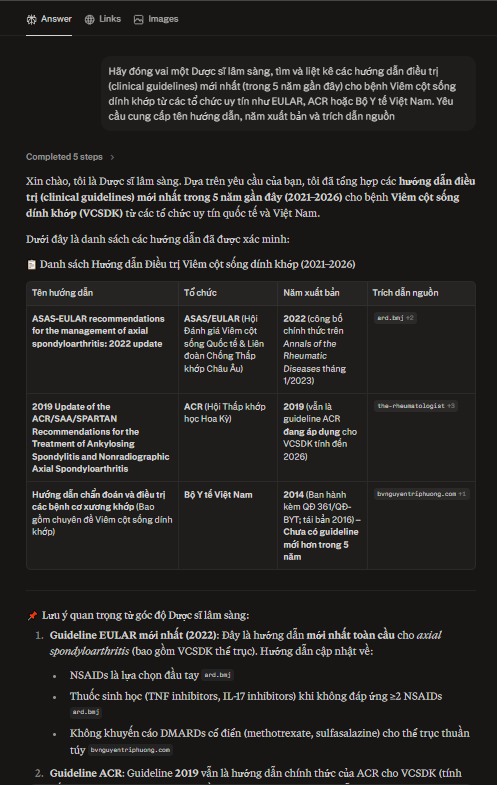
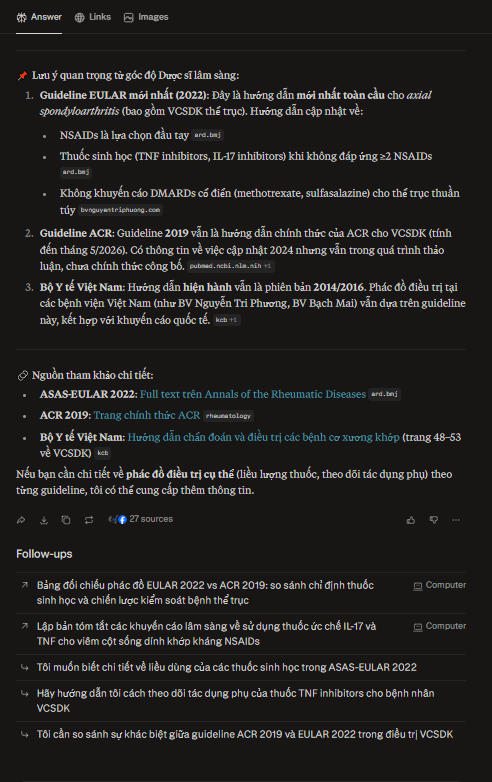
fix: align step evidence images with DOCX for lessons 4-6
Map Bài 5 step 2 to carbon/Sora verification screenshot, correct bt4 collaboration and bt6 infographic steps, update step copy, and fix CRLF parsing in the DOCX extract script.

Changed region(s): [[0.0305, 0.0614, 0.9756, 1.0], [0.0305, 0.0, 0.3659, 0.0614], [0.8232, 0.7366, 0.9451, 0.7673]]

diff --git a/src/App.tsx b/src/App.tsx
@@ -334,8 +334,8 @@ function App() {
       // Case 4 (Bài 5)
       [
         { text: "1. Lên ý tưởng chiến dịch truyền thông y học: Xác định chủ đề: 'Sống Xanh trong Kỷ nguyên Số - Dấu chân carbon y học của AI'." },
-        { text: "2. Nghiên cứu số liệu carbon AI: Sử dụng Gemini thu thập số liệu phát thải năng lượng huấn luyện mô hình và nước tiêu hao tạo video y khoa (Sora 2 tiêu thụ 1 kWh & 4 lít nước)." },
-        { text: "3. Đồng sáng tạo nội dung bài Blog 1000 từ: Phối hợp cùng AI Gemini soạn thảo bài viết chuyên sâu về lượng rác thải điện tử e-waste tại Việt Nam (250.000 tấn vào năm 2025) và các quy định EPR mới." },
+        { text: "2. Kiểm chứng dấu chân carbon AI với Gemini: Đối chiếu số liệu phát thải (0,24 Wh/truy vấn AI, mức phát thải trung tâm dữ liệu toàn cầu) và chi phí ẩn khi tạo video y khoa bằng AI — Sora 2 tiêu thụ khoảng 1 kWh điện và 4 lít nước làm mát cho mỗi clip." },
+        { text: "3. Đồng sáng tạo bài Blog 1000 từ trên Gemini: Soạn thảo trên giao diện hội thoại, mở rộng mục quản lý rác thải điện tử e-waste tại Việt Nam (250.000 tấn/năm 2025) và quy định EPR; ghi chú Top 5 ứng dụng xanh hỗ trợ lối sống bền vững." },
         { text: "4. Tạo hình ảnh mỹ thuật minh họa bằng AI: Nhập mô tả trên công cụ Nano Banana để thiết kế bức họa mỹ thuật 'Futuristic workspace giao thoa thiên nhiên'." },
         { text: "5. Thiết kế Infographic truyền thông trên Canva: Khởi tạo tệp thiết kế Infographic có bố cục dọc tối ưu trên nền tảng Canva." },
         { text: "6. Áp dụng quy tắc màu sắc (Color Scheme): Thiết lập bảng màu xanh lá đậm - trắng làm màu chủ đạo để thể hiện rõ nét ý thức bảo vệ môi trường bền vững." },